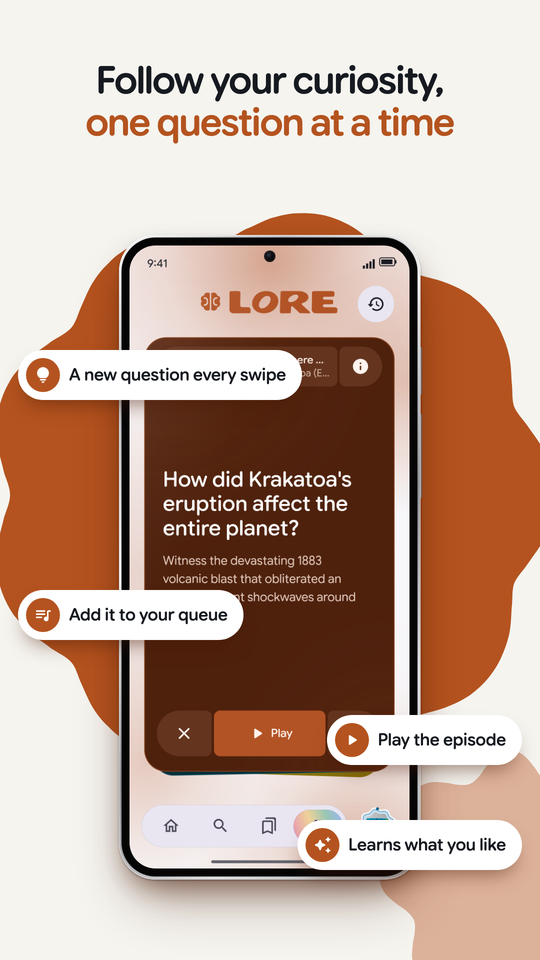
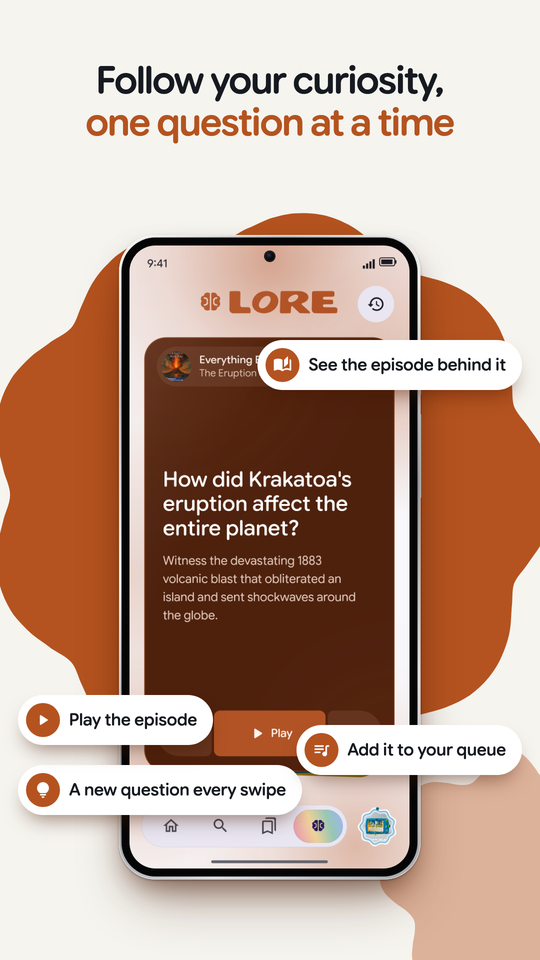
docs: align README screenshot labels with their controls

Changed region(s): [[0.0296, 0.7188, 0.9778, 0.9375], [0.0296, 0.3438, 0.9778, 0.4375], [0.0296, 0.5938, 0.4741, 0.6875]]

diff --git a/README.md b/README.md
@@ -204,9 +204,9 @@ Then it stays quiet while you listen. Free, with no app ads and no paywalls.
 - **The boxlore brief.** An optional daily news episode, with sources.
 
 <p align="center">
-<img src="docs/images/brand/screens/lore.png?v=39694344" width="30%" alt="Lore: a question card about Krakatoa that leads to an episode, with Play and Add to queue"/>&nbsp;
-<img src="docs/images/brand/screens/explore.png?v=7d858bb5" width="30%" alt="Explore: search by idea, picks for you, ideas for the time of day and top shows by region"/>&nbsp;
-<img src="docs/images/brand/screens/welcome.png?v=902680c5" width="30%" alt="Welcome: meet Echo, answer a few questions and get shows picked for you, or import your library"/>
+<img src="docs/images/brand/screens/lore.png?v=5e0ce722" width="30%" alt="Lore: a question card about Krakatoa that leads to an episode, with Play and Add to queue"/>&nbsp;
+<img src="docs/images/brand/screens/explore.png?v=915419b3" width="30%" alt="Explore: search by idea, picks for you, ideas for the time of day and top shows by region"/>&nbsp;
+<img src="docs/images/brand/screens/welcome.png?v=bac80a1c" width="30%" alt="Welcome: meet Echo, answer a few questions and get shows picked for you, or import your library"/>
 </p>
 
 <br/>
@@ -221,9 +221,9 @@ Then it stays quiet while you listen. Free, with no app ads and no paywalls.
 - **Ready before you go offline.** Smart Downloads get new episodes onto your phone.
 
 <p align="center">
-<img src="docs/images/brand/screens/home.png?v=664f2616" width="30%" alt="boxlore Home: resume in one tap, with picks for you, Daily mix and Smart Downloads"/>&nbsp;
-<img src="docs/images/brand/screens/player.png?v=40627d11" width="30%" alt="The boxlore player in the show’s colours, with 0.5× to 3× speed, a sleep timer, chapters, transcripts and Google Cast"/>&nbsp;
-<img src="docs/images/brand/screens/bunpod.png?v=2098e298" width="30%" alt="The bunpod player: larger titles, time left at a glance and big, easy controls"/>
+<img src="docs/images/brand/screens/home.png?v=a46e40e1" width="30%" alt="boxlore Home: resume in one tap, with picks for you, Daily mix and Smart Downloads"/>&nbsp;
+<img src="docs/images/brand/screens/player.png?v=9893830f" width="30%" alt="The boxlore player in the show’s colours, with 0.5× to 3× speed, a sleep timer, chapters, transcripts and Google Cast"/>&nbsp;
+<img src="docs/images/brand/screens/bunpod.png?v=d87514d6" width="30%" alt="The bunpod player: larger titles, time left at a glance and big, easy controls"/>
 </p>
 
 <br/>
@@ -241,8 +241,8 @@ Then it stays quiet while you listen. Free, with no app ads and no paywalls.
 
 <p align="center">
 <img src="docs/images/brand/screens/home_styles.png?v=7c9b1be2" width="30%" alt="Six Home styles: Block, Cover, Tide, Duotone, Halo and Marquee"/>&nbsp;
-<img src="docs/images/brand/screens/themes.png?v=6a6d1cce" width="30%" alt="The custom theme editor with a live preview in light and dark and any colour you like"/>&nbsp;
-<img src="docs/images/brand/screens/backup.png?v=10978eaa" width="30%" alt="Cloud sync and backups: full library backup, OPML import and export, and sync across your devices"/>
+<img src="docs/images/brand/screens/themes.png?v=b755cb0c" width="30%" alt="The custom theme editor with a live preview in light and dark and any colour you like"/>&nbsp;
+<img src="docs/images/brand/screens/backup.png?v=2e4cfedf" width="30%" alt="Cloud sync and backups: full library backup, OPML import and export, and sync across your devices"/>
 </p>
 
 <br/>
